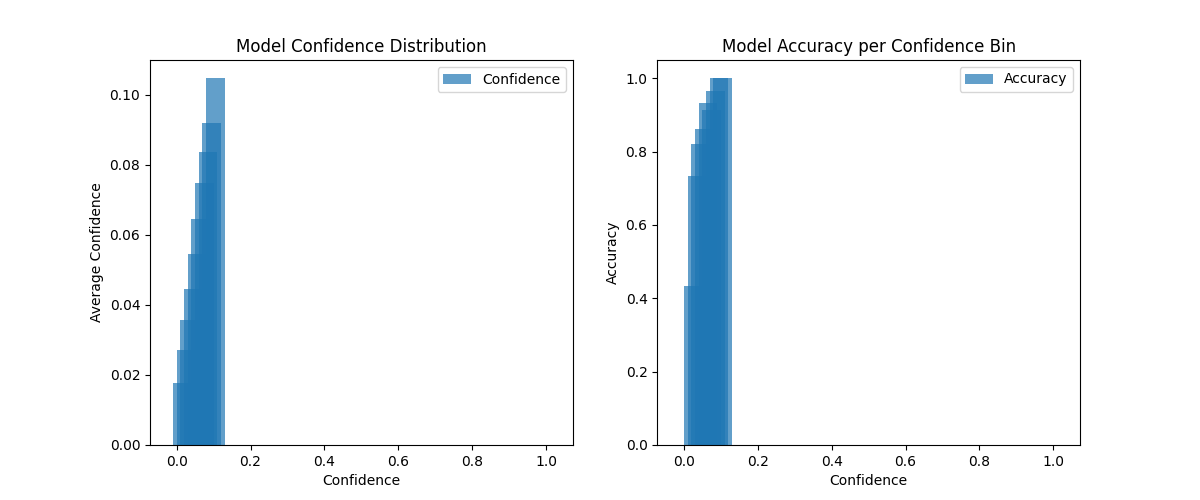
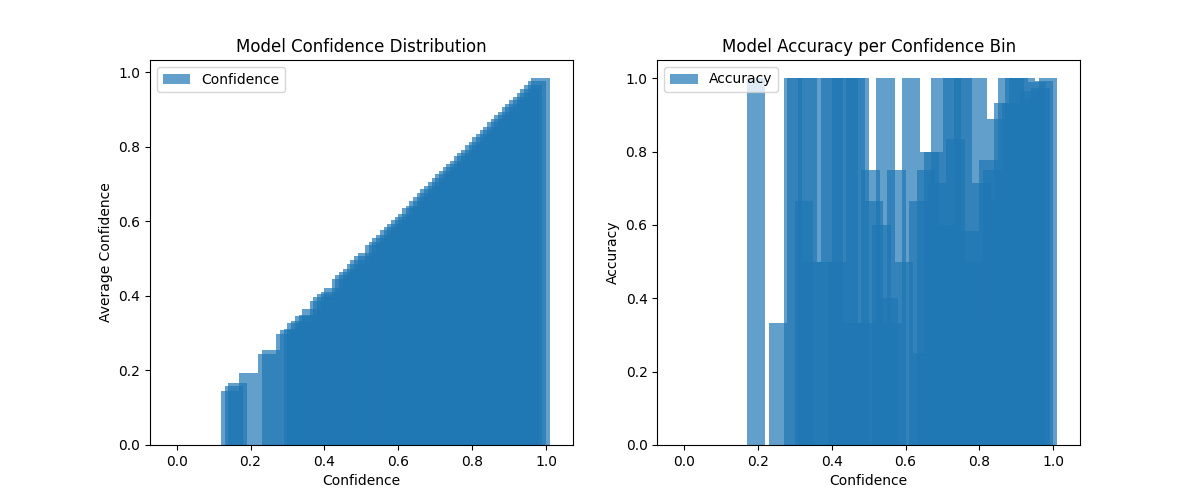
version documentation

diff --git a/Representational-Learning/utils.py b/Representational-Learning/utils.py
@@ -4,10 +4,42 @@ from sklearn.preprocessing import StandardScaler
 import numpy as np
 import torch
 from PIL import Image
-
-
+import torch.nn.functional as F
+import torchvision.transforms as transforms
 
 device = "cuda" if torch.cuda.is_available() else "cpu"
+
+clip_normalization = transforms.Normalize(
+    mean=[0.48145466, 0.4578275, 0.40821073],
+    std=[0.26862954, 0.26130258, 0.27577711]
+)
+
+transform = transforms.Compose([
+    transforms.RandomResizedCrop(224, scale=(0.8, 1.0)), 
+    transforms.RandomHorizontalFlip(),                   
+    transforms.ColorJitter(brightness=0.4, contrast=0.4, saturation=0.4, hue=0.1),  
+    transforms.ToTensor(),                             
+    clip_normalization                                 
+])
+
+
+class UnsupervisedDataset(torch.utils.data.Dataset):
+    def __init__(self, dataset):
+        self.dataset = dataset
+
+    def __len__(self):
+        return len(self.dataset)
+
+    def __getitem__(self, idx):
+        image = self.dataset[idx]['image']
+        label = self.dataset[idx]['label']
+        image = Image.fromarray(np.array(image))
+
+        image1 = transform(image)
+        image2 = transform(image)
+        return image1, image2, label
+
+
 # Preprocess data
 class CustomDataset(torch.utils.data.Dataset):
     def __init__(self, dataset, preprocess):
@@ -120,3 +152,85 @@ def compute_ece(probs, labels, n_bins=100):
                 avg_confidence_in_bin = np.mean(probs[in_bin])
                 ece += np.abs(avg_confidence_in_bin - accuracy_in_bin) * prop_in_bin
     return ece
+
+
+# Contrastive learning (with class) loss
+class SupConLoss(torch.nn.Module):
+    def __init__(self, temperature=0.07):
+        super(SupConLoss, self).__init__()
+        self.temperature = temperature
+
+    def forward(self, features, labels):
+        # Normalize features for cosine similarity
+        features = F.normalize(features, dim=1)
+
+        batch_size = features.shape[0]
+        labels = labels.contiguous().view(-1, 1)
+
+        # Create mask for positive pairs
+        mask = torch.eq(labels, labels.T).float().to(features.device)
+
+        # Cosine similarity matrix
+        similarity_matrix = torch.matmul(features, features.T) / self.temperature
+
+        # Remove self-comparisons
+        logits_mask = torch.scatter(
+            torch.ones_like(mask),
+            1,
+            torch.arange(batch_size).view(-1, 1).to(features.device),
+            0
+        )
+        masked_logits = similarity_matrix * logits_mask
+
+        # Compute log probabilities
+        exp_logits = torch.exp(masked_logits)
+        log_probs = masked_logits - torch.log(exp_logits.sum(1, keepdim=True) + 1e-12)
+
+        # Positive pairs
+        pos_mask = mask * logits_mask
+        numerator = (log_probs * pos_mask).sum(1)
+        denominator = pos_mask.sum(1) + 1e-12  # Avoid division by zero
+
+        # Filter valid samples
+        valid_mask = denominator > 0
+        numerator = numerator[valid_mask]
+        denominator = denominator[valid_mask]
+
+        # Loss
+        loss = -numerator / denominator
+        print(loss)
+        print(len(loss))
+        # print(loss)  # Debugging: Check NaN
+        return loss.mean()
+
+
+
+# Contrastive loss (without class)
+class UnsupervisedContrastiveLoss(torch.nn.Module):
+    def __init__(self, temperature=0.07):
+        super(UnsupervisedContrastiveLoss, self).__init__()
+        self.temperature = temperature
+
+    def forward(self, features):
+        # Normalize features for cosine similarity
+        features = F.normalize(features, dim=1)
+        # Similarity matrix
+        similarity_matrix = torch.matmul(features, features.T)
+        similarity_matrix = similarity_matrix.to(torch.float32)  # 자료형이 float16이라 32로 변환. 안그러면 e^15이상에서 overflow 발생
+        similarity_matrix /= self.temperature
+
+        # Remove self-comparisons
+        mask = torch.eye(features.shape[0], dtype=torch.bool).to(features.device)
+        similarity_matrix = similarity_matrix.masked_fill(mask, -float("inf"))
+
+        # Compute probabilities
+        exp_sim = torch.exp(similarity_matrix)
+        exp_sim_sum = exp_sim.sum(dim=1) + 1e-8
+
+        batch_size = features.shape[0] // 2
+        pos_sim = torch.exp(torch.diagonal(similarity_matrix, offset=batch_size))
+
+        pos_sim_expanded = torch.cat([pos_sim, pos_sim])
+
+        loss = -torch.log(pos_sim_expanded / exp_sim_sum)
+        return loss.mean()

diff --git a/Representational-Learning/train_without_class.py b/Representational-Learning/train_without_class.py
@@ -1,0 +1,82 @@
+import torch
+import torch.nn as nn
+import clip
+from torch.utils.data import DataLoader
+from PIL import Image
+import numpy as np
+from tqdm import tqdm
+from datasets import load_from_disk
+from model import CustomCLIPClassifier
+from utils import UnsupervisedDataset, UnsupervisedContrastiveLoss
+
+# Load CLIP model
+device = "cuda" if torch.cuda.is_available() else "cpu"
+model, preprocess = clip.load("ViT-B/32", device=device, jit=False)
+model = model.float()
+
+for name, param in model.named_parameters():
+    if "visual.transformer.resblocks.11" in name:
+        param.requires_grad = True
+    else:
+        param.requires_grad = False
+
+# Initialize custom classifier model
+classifier_model = CustomCLIPClassifier(model).to(device)
+
+trainable_params = list(classifier_model.classifier.parameters()) + [
+    param for name, param in model.named_parameters() if param.requires_grad
+]
+
+optimizer = torch.optim.Adam(trainable_params, lr=5e-4)
+criterion = nn.CrossEntropyLoss()
+
+dataset = load_from_disk("/root/DS_assignment_raw/Representational-Learning/dataset/train")
+custom_dataset = UnsupervisedDataset(dataset)
+dataloader = DataLoader(custom_dataset, batch_size=64, shuffle=True)
+
+contrastive_loss_fn = UnsupervisedContrastiveLoss(temperature=0.001)
+
+# Training loop
+classifier_model.train()
+for epoch in range(5):
+    total_loss = 0
+    for image1, image2, labels in tqdm(dataloader):
+        image1, image2, labels = image1.to(device), image2.to(device), labels.to(device)
+
+        # Forward pass to extract features
+        features1 = classifier_model.clip_model.encode_image(image1)
+        features2 = classifier_model.clip_model.encode_image(image2)
+
+        # Concatenate features for contrastive loss
+        features = torch.cat([features1, features2], dim=0)
+
+        # Forward pass through the classifier
+        logits1 = classifier_model.classifier(features1)
+        logits2 = classifier_model.classifier(features2)
+
+        logits = torch.cat([logits1, logits2], dim=0)
+        labels_concat = torch.cat([labels, labels], dim=0)
+
+        # Compute classification loss
+        classification_loss = criterion(logits, labels_concat)
+
+        # Compute contrastive loss
+        contrastive_loss_value = contrastive_loss_fn(features)
+
+        # Combine losses
+        alpha = 0.5 
+        loss = classification_loss + alpha * contrastive_loss_value
+
+        # Backpropagation
+        optimizer.zero_grad()
+        loss.backward()
+        optimizer.step()
+
+        total_loss += loss.item()
+
+    print(f"Epoch {epoch + 1}, Loss: {total_loss / len(dataloader)}")
+
+# Save the trained model
+model_save_path = "/root/DS_assignment_raw/Representational-Learning/saved_model.pth"
+torch.save(classifier_model.state_dict(), model_save_path)
+print(f"Model saved to {model_save_path}")

diff --git a/Representational-Learning/eval.py b/Representational-Learning/eval.py
@@ -4,6 +4,7 @@ import numpy as np
 from torch.utils.data import DataLoader
 from PIL import Image
 from datasets import load_from_disk
+from sklearn.metrics import accuracy_score, classification_report
 
 from model import CustomCLIPClassifier
 from utils import CustomDataset, compute_ece, plot_confidence_and_accuracy, visualize_embeddings_with_tsne
@@ -13,35 +14,50 @@ device = "cuda" if torch.cuda.is_available() else "cpu"
 model, preprocess = clip.load("ViT-B/32", device=device)
 
 # Load the saved model
-model_load_path = "/home/dongryeol/Representational-Learning/saved_model.pth"
+model_load_path = "/root/DS_assignment_raw/Representational-Learning/saved_model.pth"
 classifier_model = CustomCLIPClassifier(model).to(device)
 classifier_model.load_state_dict(torch.load(model_load_path))
 classifier_model.eval()
 print(f"Model loaded from {model_load_path}")
 
 # Load and preprocess data
-dataset = load_from_disk("/home/dongryeol/Representational-Learning/dataset/val")
+dataset = load_from_disk("/root/DS_assignment_raw/Representational-Learning/dataset/val")
 custom_dataset = CustomDataset(dataset, preprocess)
 dataloader = DataLoader(custom_dataset, batch_size=32, shuffle=False)
 
-# Evaluate model and measure ECE
+# Evaluate model and measure metrics
 all_probs = []
 all_labels = []
+all_preds = []
 with torch.no_grad():
     for images, labels in dataloader:
         images = images.to(device)
+        labels = labels.to(device)
+        
         outputs = classifier_model(images)
         probs = torch.softmax(outputs, dim=1)
+        preds = torch.argmax(probs, dim=1)  # Predicted labels
+        
         all_probs.append(probs.cpu().numpy())
-        all_labels.append(labels.numpy())
+        all_labels.append(labels.cpu().numpy())
+        all_preds.append(preds.cpu().numpy())
 
 all_probs = np.concatenate(all_probs)
 all_labels = np.concatenate(all_labels)
+all_preds = np.concatenate(all_preds)
 
+# Compute Accuracy and F1 Score
+accuracy = accuracy_score(all_labels, all_preds)
+print(f"Accuracy: {accuracy:.4f}")
 
+# Compute classification report (includes F1 Score, Precision, Recall)
+print("\nClassification Report:")
+print(classification_report(all_labels, all_preds, digits=4))
 
-
+# Compute ECE
 ece_score = compute_ece(all_probs, all_labels)
 print(f"ECE Score: {ece_score:.4f}")
+
+# Visualizations
 visualize_embeddings_with_tsne(classifier_model, dataloader)
 plot_confidence_and_accuracy(all_probs, all_labels)

diff --git a/Representational-Learning/train_with_class.py b/Representational-Learning/train_with_class.py
@@ -1,0 +1,61 @@
+import torch
+import torch.nn as nn
+import clip
+from torch.utils.data import DataLoader
+from PIL import Image
+import numpy as np
+from tqdm import tqdm
+from datasets import load_from_disk
+from model import CustomCLIPClassifier
+from utils import CustomDataset, SupConLoss
+
+# Load CLIP model
+device = "cuda" if torch.cuda.is_available() else "cpu"
+model, preprocess = clip.load("ViT-B/32", device=device)
+
+
+# 마지막 vit layer만 재학습
+for name, param in model.named_parameters():
+    if "visual.transformer.resblocks.11" in name:  # 마지막 ViT 레이어만 재학습
+        param.requires_grad = True
+
+
+# Initialize custom classifier model
+classifier_model = CustomCLIPClassifier(model).to(device)
+optimizer = torch.optim.Adam(classifier_model.classifier.parameters(), lr=1e-4)
+criterion = nn.CrossEntropyLoss()
+
+dataset = load_from_disk("/root/DS_assignment_raw/Representational-Learning/dataset/train")
+custom_dataset = CustomDataset(dataset, preprocess)
+dataloader = DataLoader(custom_dataset, batch_size=64, shuffle=True)
+
+contrastive_loss = SupConLoss(temperature=0.07)
+
+# Training loop
+classifier_model.train()
+for epoch in range(3):  # Adjust epoch count as needed
+    total_loss = 0
+    for images, labels in tqdm(dataloader):
+        images, labels = images.to(device), labels.to(device)
+
+        # Forward pass
+        features = classifier_model.clip_model.encode_image(images)
+        outputs = classifier_model.classifier(features.float())
+        
+        # Compute supervised contrastive loss
+        loss = contrastive_loss(features, labels)
+
+        # Backpropagation
+        optimizer.zero_grad()
+        loss.backward()
+        torch.nn.utils.clip_grad_norm_(classifier_model.parameters(), max_norm=1.0)
+        optimizer.step()
+        
+        total_loss += loss.item()
+    print(f"Epoch {epoch + 1}, Contrastive Loss: {total_loss / len(dataloader)}")
+
+
+# Save the trained model
+model_save_path = "/root/DS_assignment_raw/Representational-Learning/saved_model.pth"
+torch.save(classifier_model.state_dict(), model_save_path)
+print(f"Model saved to {model_save_path}")

diff --git a/Representational-Learning/train_original.py b/Representational-Learning/train_original.py
@@ -24,9 +24,9 @@ classifier_model = CustomCLIPClassifier(model).to(device)
 optimizer = torch.optim.Adam(classifier_model.classifier.parameters(), lr=1e-4)
 criterion = nn.CrossEntropyLoss()
 
-dataset = load_from_disk("/home/dongryeol/Representational-Learning/dataset/train")
+dataset = load_from_disk("/root/DS_assignment_raw/Representational-Learning/dataset/train")
 custom_dataset = CustomDataset(dataset, preprocess)
-dataloader = DataLoader(custom_dataset, batch_size=32, shuffle=True)
+dataloader = DataLoader(custom_dataset, batch_size=64, shuffle=True)
 
 # Training loop
 classifier_model.train()
@@ -43,6 +43,6 @@ for epoch in range(5):  # Train for 5 epochs, adjust as needed
     print(f"Epoch {epoch + 1}, Loss: {total_loss / len(dataloader)}")
 
 # Save the trained model
-model_save_path = "/home/dongryeol/Representational-Learning/saved_model.pth"
+model_save_path = "/root/DS_assignment_raw/Representational-Learning/saved_model.pth"
 torch.save(classifier_model.state_dict(), model_save_path)
 print(f"Model saved to {model_save_path}")

diff --git a/Representational-Learning/model.py b/Representational-Learning/model.py
@@ -9,6 +9,5 @@ class CustomCLIPClassifier(nn.Module):
         self.classifier = nn.Linear(512, 90)  # Assuming 90 classes, adjust accordingly
 
     def forward(self, images):
-        with torch.no_grad():
-            features = self.clip_model.encode_image(images)
+        features = self.clip_model.encode_image(images)
         return self.classifier(features.float())
